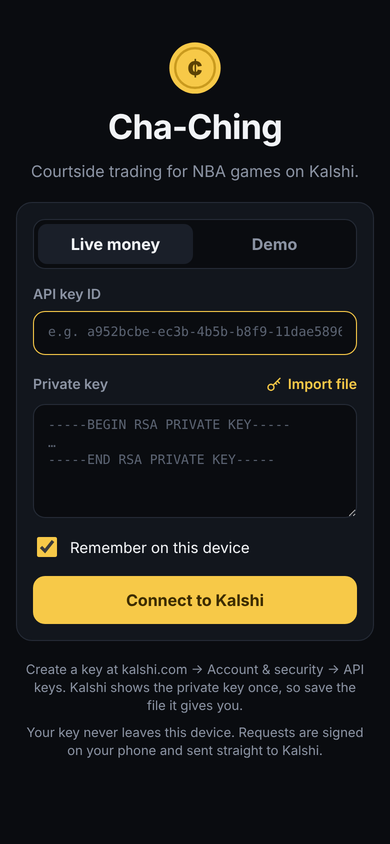
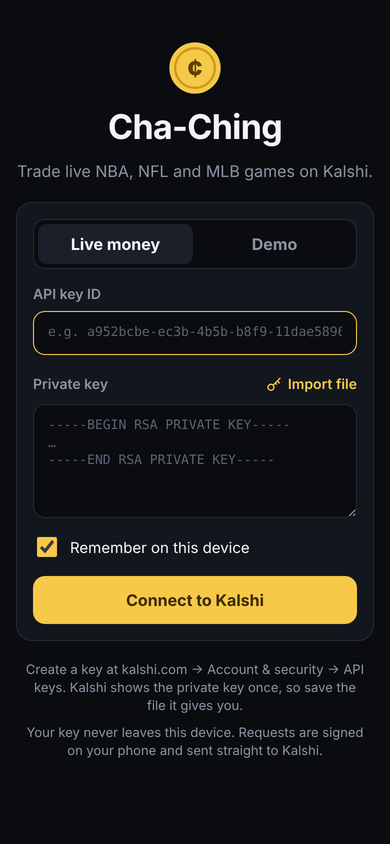
Update docs for NBA, NFL and MLB
README describes the sport picker and MLB start times, renames the
module in the project layout, and explains how to add another league.
Package description and the sign-in and games-list screenshots now
show the three sports.

Claude-Session: https://claude.ai/code/session_011V4Dr7xaBu3DiVvrpLy1GA

Changed region(s): [[0.0308, 0.1848, 0.9538, 0.2156]]

diff --git a/README.md b/README.md
@@ -1,17 +1,17 @@
 # Cha-Ching
 
-Courtside trading for NBA games on [Kalshi](https://kalshi.com). You're at the game, your team goes on a run, and you hold one button. Cha-Ching buys that team at the current price and immediately lists it for sale at your target.
+Courtside trading for NBA, NFL and MLB games on [Kalshi](https://kalshi.com). You're at the game, your team makes a big play, and you hold one button. Cha-Ching buys that team at the current price and immediately lists it for sale at your target.
 
 <p>
   <img src="docs/auth.png" width="240" alt="Sign-in screen">
-  <img src="docs/markets.png" width="240" alt="List of NBA games">
+  <img src="docs/markets.png" width="240" alt="Games list with NBA, NFL and MLB tabs">
   <img src="docs/game.png" width="240" alt="Game screen with two favor buttons and an open trade">
 </p>
 
 ## How it works
 
 1. **Sign in with your Kalshi API key.** Enter the key ID and the private key (paste it or import the `.pem` file). Pick **Live money** or **Demo**.
-2. **Pick a game.** Every NBA game open on Kalshi is listed by day. Each team shows its current buy price.
+2. **Pick a sport and a game.** Switch between **NBA**, **NFL** and **MLB** at the top. Every game open on Kalshi is listed by day, MLB games with their start time. Each team shows its current buy price.
 3. **Set your two numbers** at the top of the game screen:
    - **Spend per tap**: how many dollars each tap buys.
    - **Sell when up**: how many cents above your entry price to sell at.
@@ -83,7 +83,7 @@ npm run dist:desktop   # package an installer into release/
 
 ```bash
 npm run dev            # http://localhost:5173, hot reload
-npm test               # signer, NBA parsing, trading engine, API client
+npm test               # signer, sports parsing, trading engine, API client
 ```
 
 In the browser, Vite proxies `/kalshi/live` and `/kalshi/demo` to Kalshi so CORS doesn't block requests.
@@ -126,7 +126,7 @@ src/
     client.js     Kalshi Trade API v2 calls (V2 orders, fixed-point prices)
     transport.js  CapacitorHttp on iPhone, IPC on Electron, Vite proxy in the browser
     money.js      dollar-string ↔ cents, tick rounding
-  nba.js          KXNBAGAME events → two-team games, team colors
+  sports.js       NBA/NFL/MLB registry: Kalshi game events → two-team games, team colors
   trader.js       favor → buy → rest target → track → sell now
   store.js        settings, saved key, trade history (all local)
   ui/             auth, markets, game screens
@@ -134,5 +134,7 @@ electron/         desktop shell (main + preload)
 ios/              Xcode project (Capacitor, Swift Package Manager)
 test/             node:test suites
 ```
+
+To add another league, add an entry to `SPORTS` in `src/sports.js` with its Kalshi series ticker (for example `KXNHLGAME`) and a team table; teams it doesn't know still work, using Kalshi's names and a fallback color.
 
 The API client follows Kalshi's current schema from their official SDK: orders go to `POST /portfolio/events/orders` with `bid`/`ask` sides and fixed-point `"0.5600"` prices, and market data uses the `*_dollars` fields.
